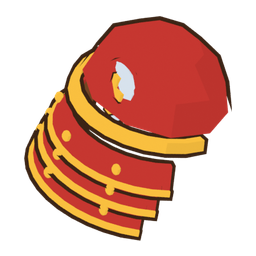
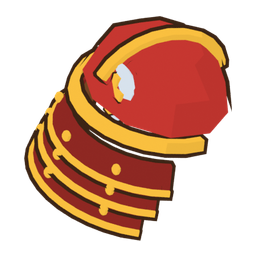
fix(hunt, gear): 스테이지 떠날 때 배경이 다시 바래던 것 · 견갑 3판 · 테두리빛 원본 없으면 멈춤
- huntFocus stage-parallax-out 키프레임이 옛 값(채도 .5 · 대비 .78 · 흐림 .6px)을 그대로 갖고 있어, 정지 값을 바꾼 뒤에도
  스테이지를 떠날 때마다 0.7초 배경이 다시 바래고 흐려졌다 → 새 정지 값과 맞춤(채도 .8 · 대비 .92 · 밝기 .74, 흐림 없음)
- 견갑 3판: 아래 겹판을 한 단 어둡게(돔과 같은 색이라 한 덩어리) · 돔 가운데 금 등줄. 60px 칸에서 고리 → 어깨판에 가까워짐
- monster-rim.mjs: 원본(art-gen/out/monster-sheets-orig, 저장소 밖)이 없으면 public 시트(이미 테두리빛)를 원본으로 삼아
  두 번 굽게 된다 → 멈추고 assemble-anim2 를 먼저 돌리라고 알림(처음 한 번만 FIRST_RUN=1)

Changed region(s): [[0.125, 0.375, 0.6875, 0.9062], [0.3438, 0.0938, 0.9062, 0.3438], [0.3125, 0.3125, 0.3438, 0.3438]]

diff --git a/src/ui/huntFocus.css b/src/ui/huntFocus.css
@@ -122,4 +122,4 @@
 
 /* 스테이지를 떠날 때 배경 흐림 연출(App.css stage-parallax-out)이 filter 를 통째로 바꿔, 전환마다 배경 채도가 원래보다 높게(1.2) 번쩍였다 —
    같은 이름으로 다시 정의해 '한 발 뒤로' 규칙(채도 · 대비 낮춤)을 지킨 채 어둡게만 */
-@keyframes stage-parallax-out { to { background-position: 20% 68%; filter: saturate(.5) contrast(.78) brightness(.8) blur(.6px); } }
+@keyframes stage-parallax-out { to { background-position: 20% 68%; filter: saturate(.8) contrast(.92) brightness(.74); } }   /* 2026-11-19 정지 값(채도 .8 · 밝기 .86 · 흐림 없음)과 맞춤 — 옛 값이면 떠날 때마다 0.7초 다시 바랬다 */

diff --git a/art-gen/blender/gear_icons.py b/art-gen/blender/gear_icons.py
@@ -202,18 +202,21 @@ def shoulder(kind):
     """견갑 3판 (2026-11-19, 리소스 피드백 ④) — 옆에서 본 어깨판: 둥근 돔 + 아래로 겹쳐 내려오는 굽은 판 셋 · 판 끝 테 · 징 · 가죽 끈.
     1 · 2판은 판을 관(tube) 고리로 만들고 위에서 내려다봐 장비창에서 '초록 마카롱 · 감긴 고리'로 읽혔다"""
     S = SHOULDERS[kind]
+    dark = '#%02x%02x%02x' % tuple(int(int(S['main'][i:i + 2], 16) * 0.72) for i in (1, 3, 5))   # 아래 판은 한 단 어둡게 — 같은 색이면 돔과 한 덩어리로 보였다
     cap = C.ellipsoid(Vector((0, 0, 0.2)), (0.56, 0.5, 0.46))
     for v in [v for v in cap.verts if v.co.z < 0.1]:
         cap.verts.remove(v)
     ob('cap', cap, m('pl0', S['main']))
     ob('caprim', band(0.575, 0.59, 0.17, 0.09, -1.75, 1.75, th=0.05), metal_m(S['trim']))
+    ridge = [Vector((0, -0.5 * math.cos(a), 0.2 + 0.46 * math.sin(a) + 0.02)) for a in [math.radians(20 + 140 * j / 10) for j in range(11)]]
+    ob('ridge', C.tube(ridge, 0.045, seg=6), metal_m(S['trim']))   # 돔 가운데 등줄
     for k in (1, 2, 3):
         zt = 0.13 - 0.15 * k
         zb = zt - 0.2
         R0 = 0.55 + 0.035 * k
         R1 = R0 + 0.07
         p = 1.5 - 0.12 * k
-        ob(f'lame{k}', band(R0, R1, zt, zb, -p, p), m('pl', S['main']))
+        ob(f'lame{k}', band(R0, R1, zt, zb, -p, p), m('pl', dark))
         ob(f'edge{k}', band(R1 + 0.004, R1 + 0.012, zb + 0.04, zb, -p, p, th=0.05), metal_m(S['trim']))
         for j, a in enumerate((-0.75, 0.0, 0.75)):
             rr = (R0 + R1) / 2 + 0.01
